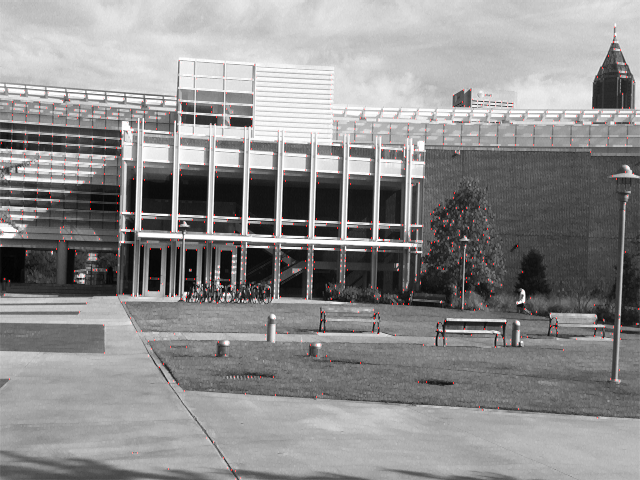
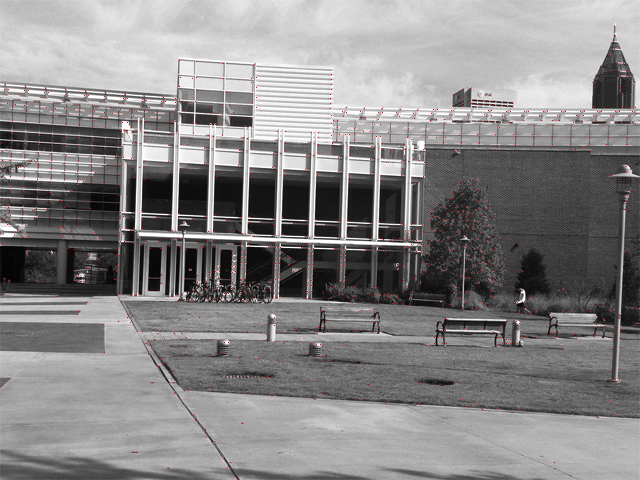
Remove redundant filtering from gradient calculation

diff --git a/ps4_python/ps4.py b/ps4_python/ps4.py
@@ -21,12 +21,11 @@ def ps4_1_a():
     images = imgs[0:3:2]
     for idx, img in enumerate(images):
         img = cv2.imread('input/'+img, cv2.IMREAD_GRAYSCALE)
-        k_sobel = 3; k_gauss = 3; s_gauss = 0
         # calculate the X and Y gradients of the two images using the above filter
-        img_grad_x = calc_grad_x(img, k_sobel, k_gauss, s_gauss, norm=True)
-        img_grad_y = calc_grad_y(img, k_sobel, k_gauss, s_gauss, norm=True)
+        img_grad_x = calc_grad_x(img, 3, norm=True)
+        img_grad_y = calc_grad_y(img, 3, norm=True)
         # save the gradient pair
-        cv2.imwrite('output/ps4-1-a-'+str(idx)+'.png', np.hstack((img_grad_x,
+        cv2.imwrite('output/ps4-1-a-'+str(idx+1)+'.png', np.hstack((img_grad_x,
                                                                   img_grad_y)))
     print('Finished calculating and saved the gradients of the images!')
         #  cv2.imshow('', np.hstack((img_grad_x, img_grad_y)))

diff --git a/ps5_python/grad_utils.py b/ps5_python/grad_utils.py
@@ -3,6 +3,7 @@ import numpy as np
 
 def calc_grad_x(img, k_sobel=3, norm=False):
     grad_x = cv2.Sobel(img, cv2.CV_64F, 1, 0, k_sobel)
+
     if norm:
         grad_x = cv2.normalize(grad_x, grad_x, alpha=0, beta=255,
                                norm_type=cv2.NORM_MINMAX, dtype=cv2.CV_8U)
@@ -10,6 +11,7 @@ def calc_grad_x(img, k_sobel=3, norm=False):
 
 def calc_grad_y(img, k_sobel=3, norm=False):
     grad_y = cv2.Sobel(img, cv2.CV_64F, 0, 1, k_sobel)
+
     if norm:
         grad_y = cv2.normalize(grad_y, grad_y, alpha=0, beta=255,
                                norm_type=cv2.NORM_MINMAX, dtype=cv2.CV_8U)

diff --git a/ps4_python/get_keypoints.py b/ps4_python/get_keypoints.py
@@ -7,7 +7,7 @@ def get_keypoints(img, draw_keypoints=True):
         gray = cv2.cvtColor(img, cv2.COLOR_BGR2GRAY).astype(np.float32)
 
     # find harris corners -> keypoints
-    # !!! Uses opencv builtin detector, since it's faster
+    # !!! Uses opencv builtin detector, since it's faster than mine
     corners = cv2.cornerHarris(gray,2,3,0.04)
     corners = cv2.normalize(corners, corners, alpha=0, beta=255,
                        norm_type=cv2.NORM_MINMAX, dtype=cv2.CV_8U)

diff --git a/ps4_python/harris_corners.py b/ps4_python/harris_corners.py
@@ -4,8 +4,8 @@ from grad_utils import *
 
 def harris_values(img, window_size=5, harris_scoring=0.04, norm=False):
     # calculate image gradients on x and y dimensions
-    Ix = calc_grad_x(img, 3, 3, 0)
-    Iy = calc_grad_y(img, 3, 3, 0)
+    Ix = calc_grad_x(img, 3)
+    Iy = calc_grad_y(img, 3)
     Ixx = Ix ** 2
     Ixy = Ix * Iy
     Iyx = Iy * Ix
